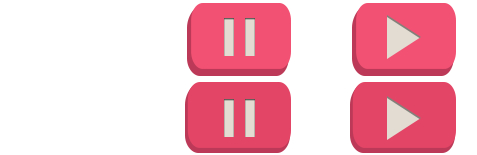
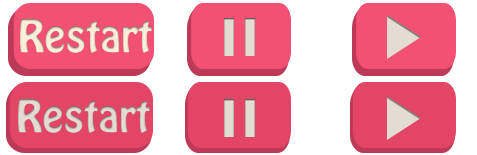
smsms

Changed region(s): [[0.0, 0.5161, 0.3229, 1.0], [0.0, 0.0, 0.3229, 0.4903]]

diff --git a/src/Game/LayerGameMenu.js b/src/Game/LayerGameMenu.js
@@ -33,15 +33,18 @@ var LayerGameMenu = cc.Layer.extend({
     initResumeMenu:function(){
         var resumeNormal = cc.Sprite.create(btn_pause, cc.rect(320, 0, 155, 75));
         var resumeSelected = cc.Sprite.create(btn_pause, cc.rect(320, 80, 155, 75));
+        var restartNormal = cc.Sprite.create(btn_pause, cc.rect(0, 0, 155, 75));
+        var restartSelected = cc.Sprite.create(btn_pause, cc.rect(0, 80, 155, 75));
 
         var resumeGame = cc.MenuItemSprite.create(resumeNormal,resumeSelected,this.onResumeGame,this);
+        var restartGame = cc.MenuItemSprite.create(restartNormal,restartSelected,this.onRestartGame,this);
 
         var winSize = cc.Director.getInstance().getWinSize();
 
-        resumeMenu = cc.Menu.create(resumeGame);
+        resumeMenu = cc.Menu.create(resumeGame,restartGame);
         resumeMenu.alignItemsHorizontallyWithPadding(90);
-        resumeMenu.setPosition(winSize.width/2 , winSize.height - 50);
-        this.addChild(resumeMenu, 0);
+        resumeMenu.setPosition(winSize.width/2 , winSize.height/2);
+        this.addChild(resumeMenu, g_GameZOder.ui);
 
         resumeMenu.setVisible(false);
 
@@ -49,6 +52,7 @@ var LayerGameMenu = cc.Layer.extend({
 
     onPauseGame:function(){
         _status = g_GameStatus.stop;
+        cc.Director.getInstance().pause();
         cc.log("Game Paused"+_status);
         menu.setVisible(false);
         resumeMenu.setVisible(true);
@@ -58,8 +62,15 @@ var LayerGameMenu = cc.Layer.extend({
     onResumeGame:function(){
 
         _status = g_GameStatus.play;
+        cc.Director.getInstance().resume();
         cc.log("Game Resumed"+_status);
         menu.setVisible(true);
         resumeMenu.setVisible(false);
+    },
+
+    onRestartGame:function(){
+        cc.Director.getInstance().resume();
+        var newScene = new SceneMain();
+        cc.Director.getInstance().replaceScene(cc.TransitionSlideInT.create(0.4, newScene));
     }
 })
